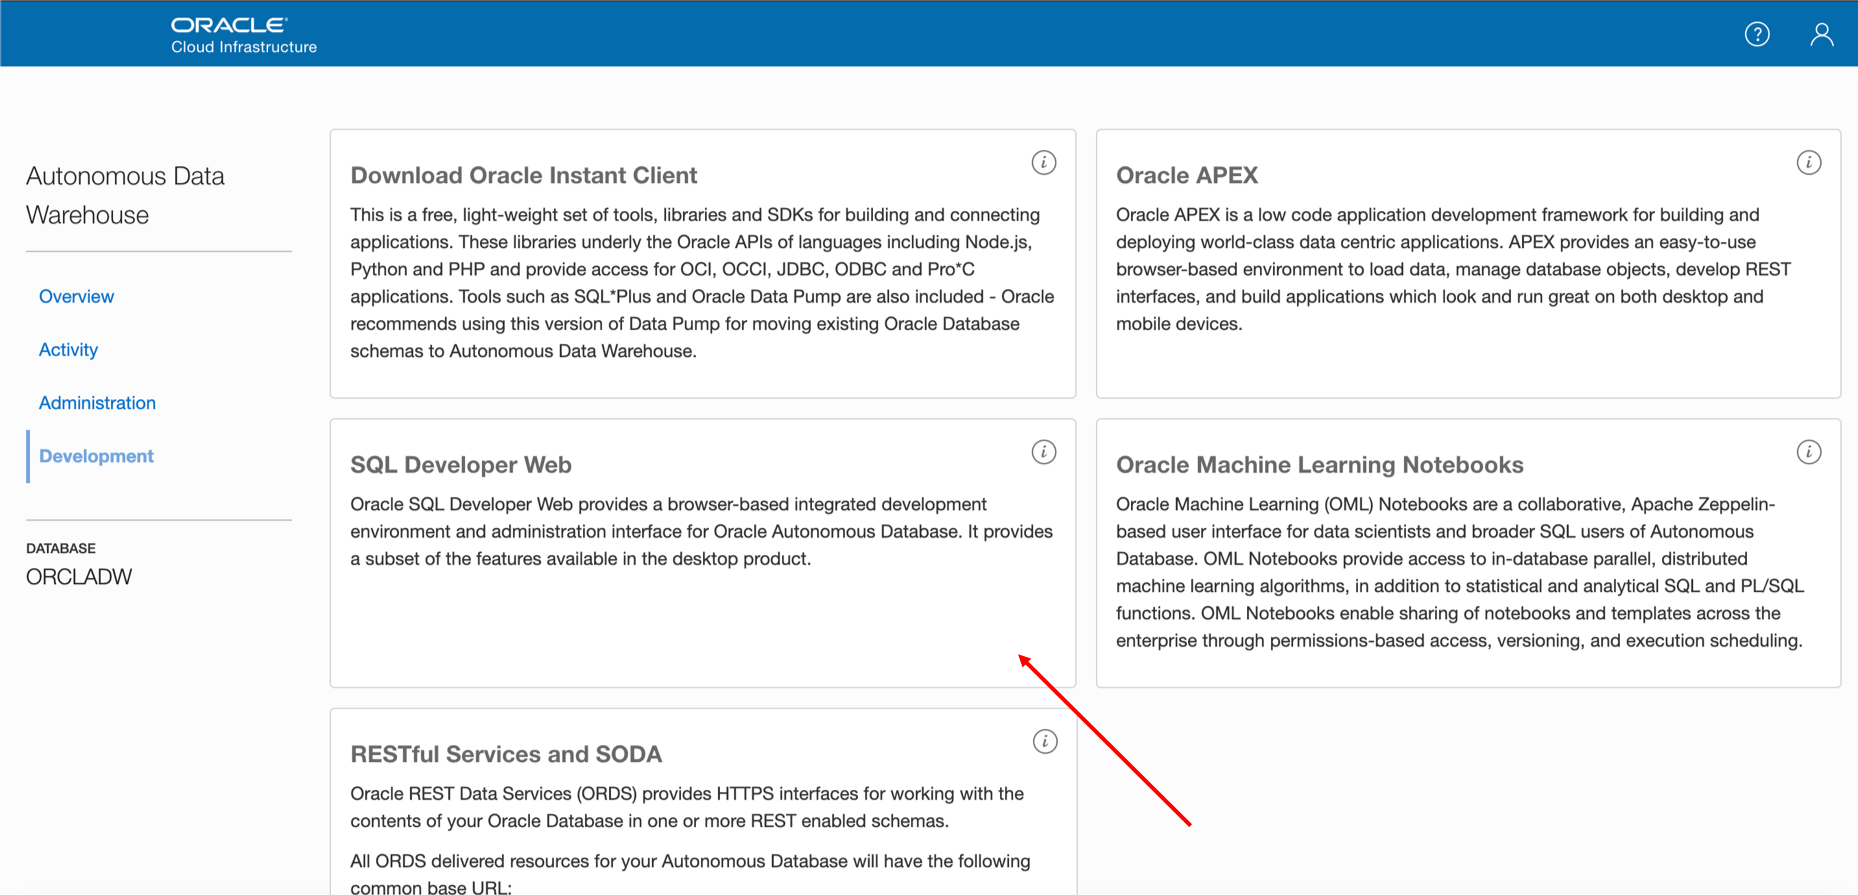
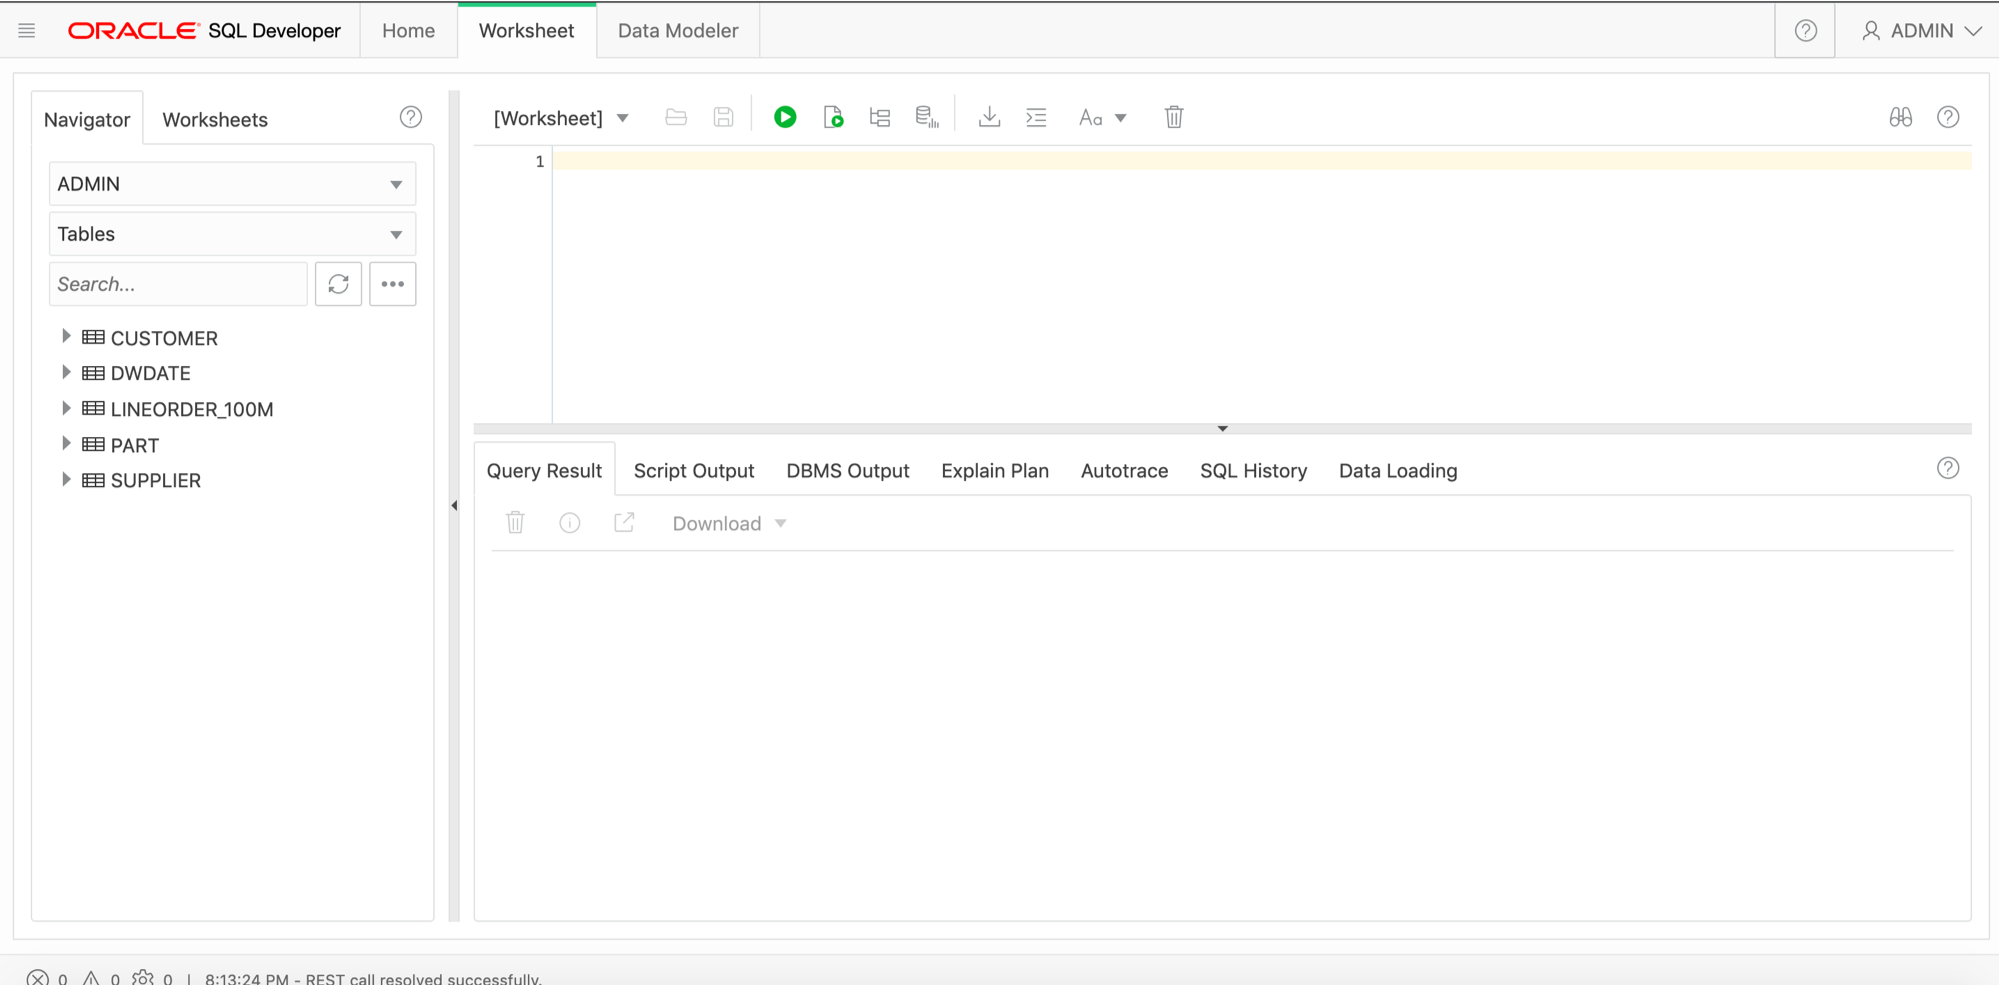
SQL Developer Web updates

diff --git a/1.md b/1.md
@@ -241,3 +241,148 @@ You now have created your first Autonomous Database Cloud instance.
   ![](./images/1/0025.png  " ")
 
 ## **Step 7:** Create a Database Credential for Your Users
+
+- Log into SQL Develop Web, your screen should look like the following:
+
+  ![](./images/1/0024.png  " ")
+
+- To access data in the Object Store you have to enable your database user to authenticate itself with the Object Store using your OCI object store account and Auth token. You do this by creating a private CREDENTIAL object for your user that stores this information encrypted in your Autonomous Data Warehouse. This information is only usable for your user schema.
+
+- Signed in to your SQL Developer Web, copy and paste this to SQL Developer worksheet. Specify the credentials for your Oracle Cloud Infrastructure Object Storage service: The username will be the OCI username (which is not the same as your database username) and the OCI object store Auth Token you generated in the previous step. In this example, the credential object named OBJSTORECRED is created. You reference this credential name in the following steps.
+
+```
+<copy>SELECT * FROM DBMS_CLOUD.LIST_FILES('data_pump_dir');</copy>
+BEGIN
+  DBMS_CLOUD.CREATE_CREDENTIAL(
+    credential_name => 'adwc_token',
+    username => '<your cloud username>',
+    password => '<generated auth token>'
+  );
+END;
+/
+```
+  ![](./images/1/0027.png  " ")
+
+
+- Now you are ready to load data from the Object Store.
+
+## **Step 8:** Loading Data Using dbms_cloud.copy_data package
+
+- Fist, create your table. Enter the following in SQL Developer Web.
+
+```
+<copy>SELECT * FROM DBMS_CLOUD.LIST_FILES('data_pump_dir');</copy>
+create table admin.credit_scoring_100k
+   (    customer_id number(38,0),
+    age number(4,0),
+    income number(38,0),
+    marital_status varchar2(26 byte),
+    number_of_liables number(3,0),
+    wealth varchar2(4000 byte),
+    education_level varchar2(26 byte),
+    tenure number(4,0),
+    loan_type varchar2(26 byte),
+    loan_amount number(38,0),
+    loan_length number(5,0),
+    gender varchar2(26 byte),
+    region varchar2(26 byte),
+    current_address_duration number(5,0),
+    residental_status varchar2(26 byte),
+    number_of_prior_loans number(3,0),
+    number_of_current_accounts number(3,0),
+    number_of_saving_accounts number(3,0),
+    occupation varchar2(26 byte),
+    has_checking_account varchar2(26 byte),
+    credit_history varchar2(26 byte),
+    present_employment_since varchar2(26 byte),
+    fixed_income_rate number(4,1),
+    debtor_guarantors varchar2(26 byte),
+    has_own_phone_no varchar2(26 byte),
+    has_same_phone_no_since number(4,0),
+    is_foreign_worker varchar2(26 byte),
+    number_of_open_accounts number(3,0),
+    number_of_closed_accounts number(3,0),
+    number_of_inactive_accounts number(3,0),
+    number_of_inquiries number(3,0),
+    highest_credit_card_limit number(7,0),
+    credit_card_utilization_rate number(4,1),
+    delinquency_status varchar2(26 byte),
+    new_bankruptcy varchar2(26 byte),
+    number_of_collections number(3,0),
+    max_cc_spent_amount number(7,0),
+    max_cc_spent_amount_prev number(7,0),
+    has_collateral varchar2(26 byte),
+    family_size number(3,0),
+    city_size varchar2(26 byte),
+    fathers_job varchar2(26 byte),
+    mothers_job varchar2(26 byte),
+    most_spending_type varchar2(26 byte),
+    second_most_spending_type varchar2(26 byte),
+    third_most_spending_type varchar2(26 byte),
+    school_friends_percentage number(3,1),
+    job_friends_percentage number(3,1),
+    number_of_protestor_likes number(4,0),
+    no_of_protestor_comments number(3,0),
+    no_of_linkedin_contacts number(5,0),
+    average_job_changing_period number(4,0),
+    no_of_debtors_on_fb number(3,0),
+    no_of_recruiters_on_linkedin number(4,0),
+    no_of_total_endorsements number(4,0),
+    no_of_followers_on_twitter number(5,0),
+    mode_job_of_contacts varchar2(26 byte),
+    average_no_of_retweets number(4,0),
+    facebook_influence_score number(3,1),
+    percentage_phd_on_linkedin number(4,0),
+    percentage_masters number(4,0),
+    percentage_ug number(4,0),
+    percentage_high_school number(4,0),
+    percentage_other number(4,0),
+    is_posted_sth_within_a_month varchar2(26 byte),
+    most_popular_post_category varchar2(26 byte),
+    interest_rate number(4,1),
+    earnings number(4,1),
+    unemployment_index number(5,1),
+    production_index number(6,1),
+    housing_index number(7,2),
+    consumer_confidence_index number(4,2),
+    inflation_rate number(5,2),
+    customer_value_segment varchar2(26 byte),
+    customer_dmg_segment varchar2(26 byte),
+    customer_lifetime_value number(8,0),
+    churn_rate_of_cc1 number(4,1),
+    churn_rate_of_cc2 number(4,1),
+    churn_rate_of_ccn number(5,2),
+    churn_rate_of_account_no1 number(4,1),
+    churn_rate__of_account_no2 number(4,1),
+    churn_rate_of_account_non number(4,2),
+    health_score number(3,0),
+    customer_depth number(3,0),
+    lifecycle_stage number(38,0),
+    credit_score_bin varchar2(100 byte)
+   );
+
+grant select any table to public;
+```
+  ![](./images/1/0029.png  " ")
+
+  - Click on the refresh button
+
+  ![](./images/1/0030.png  " ")
+
+  - Enter the following code snippit and then execute.
+
+  ```
+  <copy>SELECT * FROM DBMS_CLOUD.LIST_FILES('data_pump_dir');</copy>
+  begin
+   dbms_cloud.copy_data(
+      table_name =>'credit_scoring_100k',
+      credential_name =>'adwc_token',
+      file_uri_list => 'https://objectstorage.<your data center - eg us-ashburn-1>/n/<your tenant - eg dgcameron2>/adwc/o/credit_scoring_100k.csv',
+      format => json_object('ignoremissingcolumns' value 'true', 'removequotes' value 'true', 'dateformat' value 'YYYY-MM-DD HH24:MI:SS', 'blankasnull' value 'true', 'delimiter' value ',', 'skipheaders' value '1')
+   );
+  end;
+  /
+  ```
+  ![](./images/1/00311.png  " ")
+
+  - Click on the table on the left 

diff --git a/2.md b/2.md
@@ -1,0 +1,1 @@
+# Machine Learning
